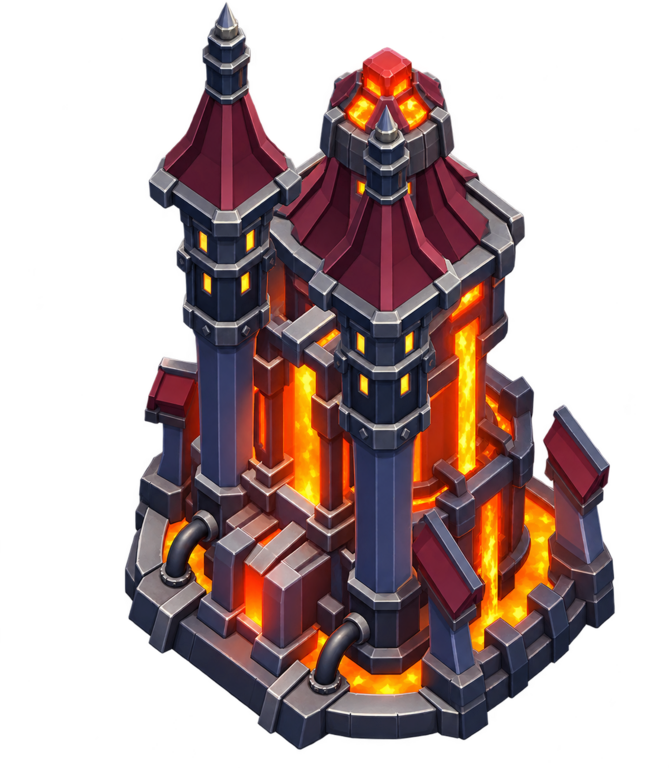
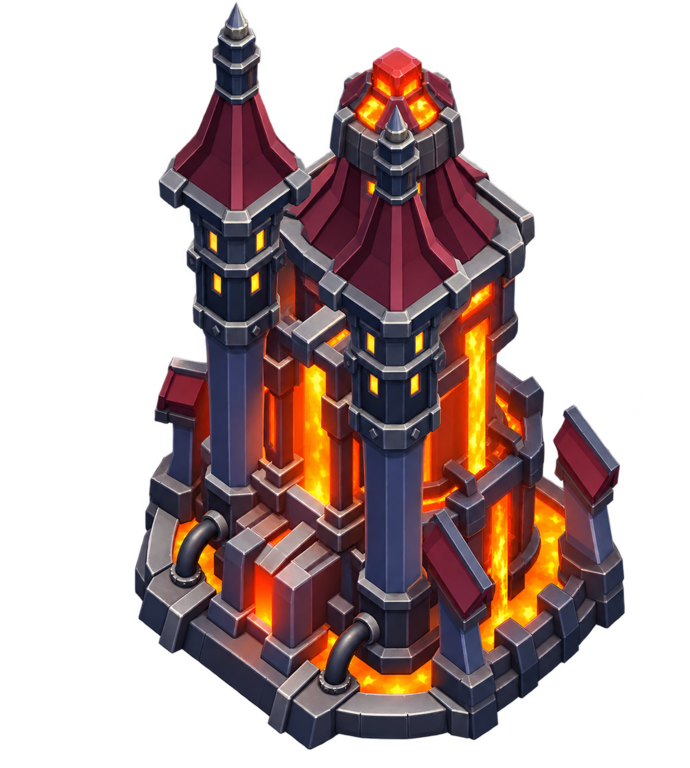
Match FC6 furnace asset format to FC7

Changed region(s): [[0.5082, 0.0625, 0.9268, 0.9688], [0.1794, 0.0, 0.4484, 0.9688], [0.5082, 0.2812, 0.5381, 0.3438]]

diff --git a/src/app.js b/src/app.js
@@ -66,7 +66,7 @@ const furnaceVisualAssets={
 function furnaceVisual(level){
   const asset=furnaceVisualAssets[level.id];
   return asset
-    ? `<img src="assets/visuals/furnaces/${asset}?v=20261009-furnace-assets-fc1-fc10-normalized-v1" alt="Chaudière ${level.id}" draggable="false">`
+    ? `<img src="assets/visuals/furnaces/${asset}?v=20261009-furnace-assets-fc6-fc7-format-v1" alt="Chaudière ${level.id}" draggable="false">`
     : '<span class="furnace-placeholder" aria-hidden="true"><span class="furnace-placeholder-stack"></span><span class="furnace-placeholder-door">🔥</span></span>';
 }
 function furnaceLevelParts(level){
